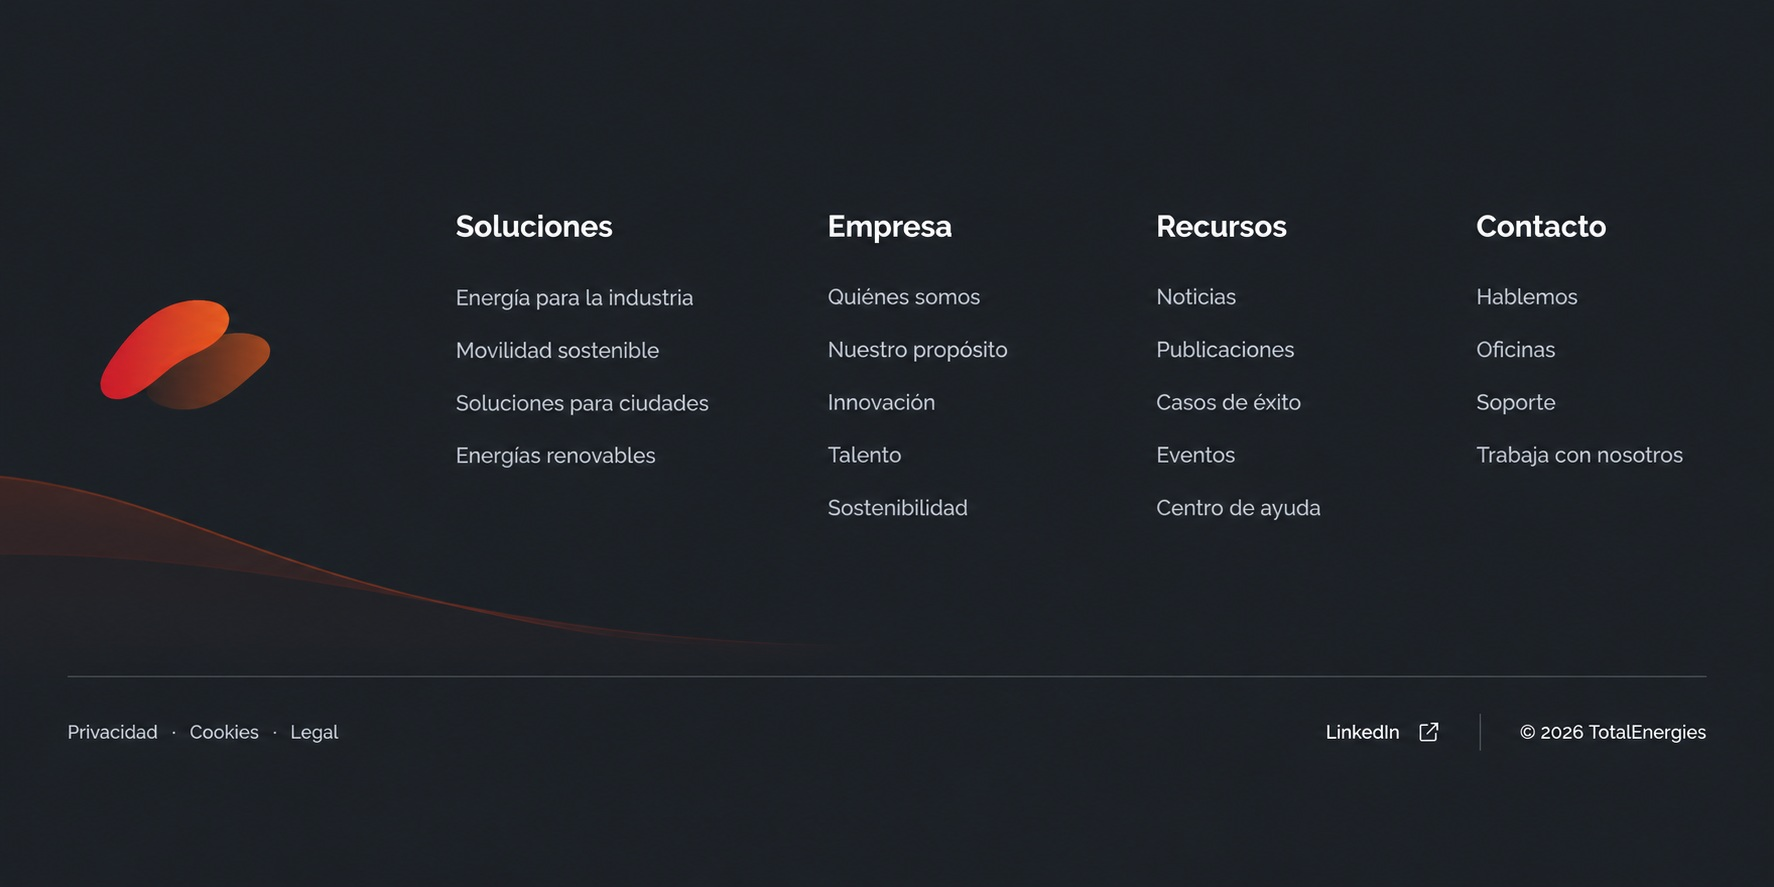
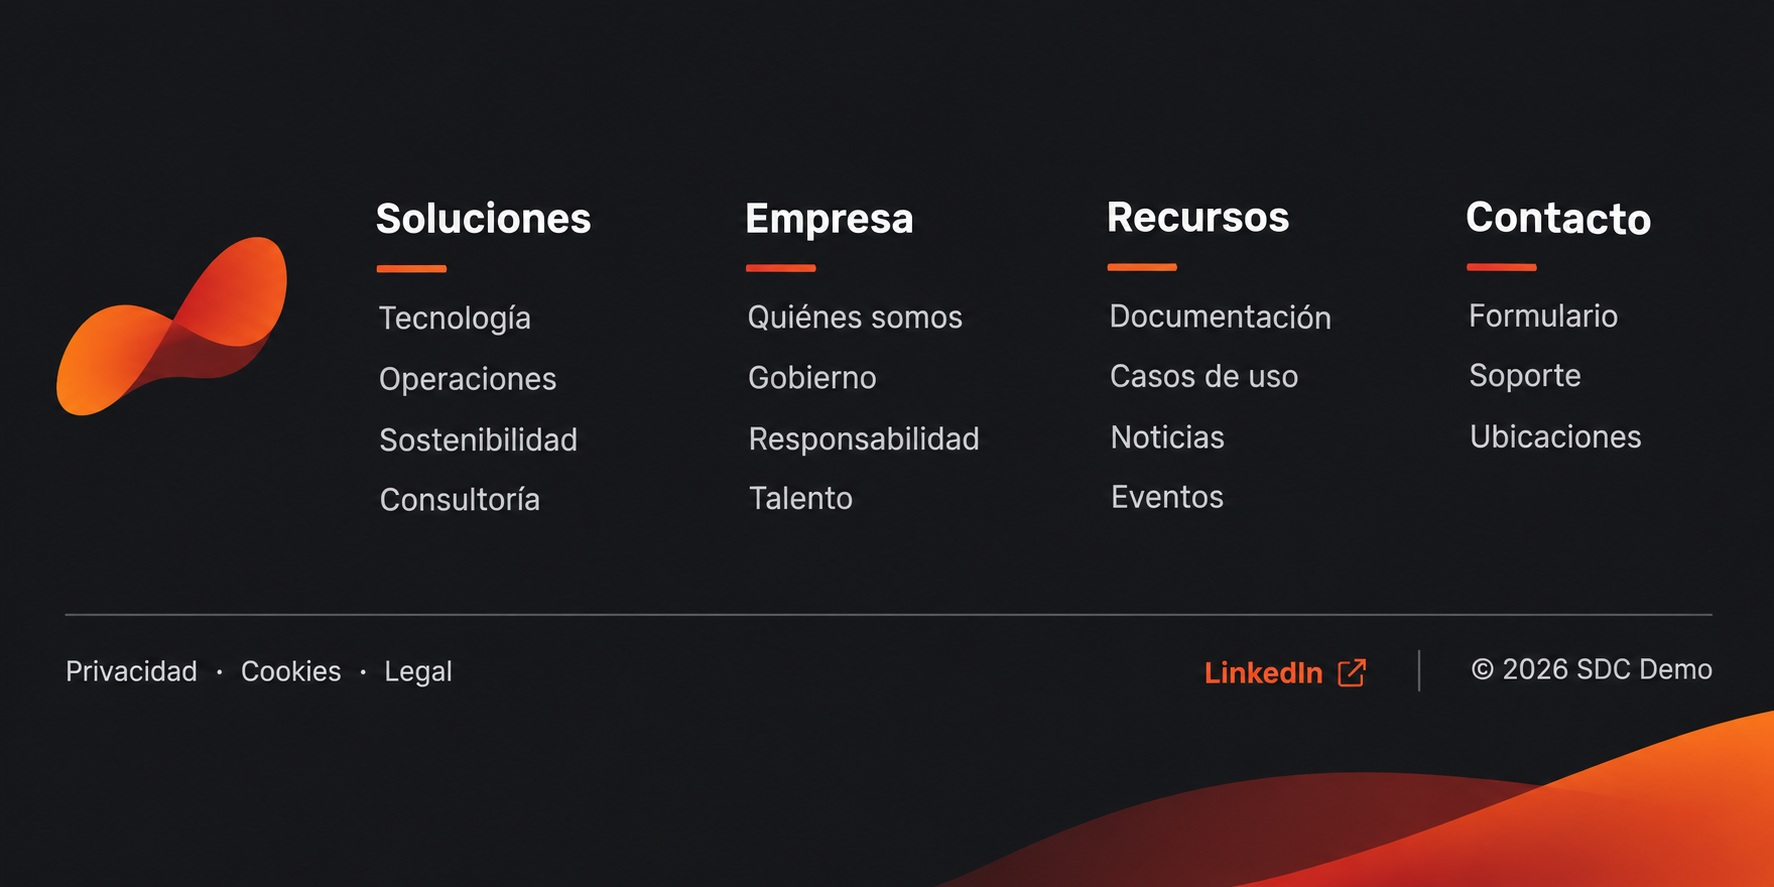
Remove company-specific branding from demo

diff --git a/agent/README.md b/agent/README.md
@@ -1,6 +1,6 @@
 # Contratos del agente
 
-Esta carpeta contiene los contratos de datos y los validadores de la POC de generación de landings. El camino principal de generación es el agente de ChatGPT `TotalEnergies SDC Copilot`, documentado en `agent/chatgpt-agent/INSTRUCTIONS.md`. El proveedor `deterministic` se conserva para pruebas reproducibles y `openai` como fallback técnico de integración.
+Esta carpeta contiene los contratos de datos y los validadores de la POC de generación de landings. El camino principal de generación es el agente de ChatGPT `SDC Copilot`, documentado en `agent/chatgpt-agent/INSTRUCTIONS.md`. El proveedor `deterministic` se conserva para pruebas reproducibles y `openai` como fallback técnico de integración.
 
 El punto de entrada es `bin/run-agent.mjs`. En ambos casos el resultado se valida automáticamente contra el contrato antes de quedar en `awaiting_visual_approval`.
 
@@ -29,6 +29,10 @@ El proveedor OpenAI genera `llm-components.json`, `design_direction` dentro de `
 El agente termina en `awaiting_visual_approval`. La aprobación debe realizarse explícitamente antes de generar el paquete SDC.
 
 El ejemplo `agent/examples/energia-move-with-candidate-brief.json` demuestra la ruta MVP2: añade `C11` como componente candidato, lo representa en el preview y genera su paquete experimental en `sdc-package/components`.
+
+## Gateway de despliegue
+
+`agent/deployment-gateway` contiene el MVP para conectar el agente con la validación, GitHub, Pantheon Dev y la importación de drafts en Drupal. Arranca en modo `dry-run`, restringe el repositorio de la POC y no incluye ninguna operación de publicación. Antes de conectarlo a ChatGPT debe publicarse detrás de HTTPS como custom MCP, configurar autenticación y mantener las acciones de escritura con confirmación.
 
 ## Principios
 

diff --git a/README.md b/README.md
@@ -29,7 +29,7 @@ Con la integración GitHub de Pantheon, conecta este repositorio como repositori
 
 El flujo de la POC está definido en [docs/agent-mvp-roadmap.md](docs/agent-mvp-roadmap.md). El agente debe generar primero la propuesta visual, después el HTML autocontenido y, tras la aprobación del usuario, el paquete SDC. GitHub se utiliza para ramas y pull requests; Drupal recibe la landing en estado draft y la publicación requiere aprobación de un administrador o editor.
 
-La generación creativa se realiza desde el agente de ChatGPT `TotalEnergies SDC Copilot`. Consulta la [guía de integración del agente](docs/chatgpt-agent-integration.md) y sus [instrucciones operativas](agent/chatgpt-agent/INSTRUCTIONS.md). Los scripts de `agent/bin` validan y ejecutan las fases aprobadas.
+La generación creativa se realiza desde el agente de ChatGPT `SDC Copilot`. Consulta la [guía de integración del agente](docs/chatgpt-agent-integration.md) y sus [instrucciones operativas](agent/chatgpt-agent/INSTRUCTIONS.md). Los scripts de `agent/bin` validan y ejecutan las fases aprobadas.
 
 Para ejecutar el generador local del MVP1 con el briefing de ejemplo:
 

diff --git a/docs/chatgpt-agent-integration.md b/docs/chatgpt-agent-integration.md
@@ -1,6 +1,6 @@
 # Integración con el agente de ChatGPT
 
-La generación de la POC debe ejecutarse desde el agente `TotalEnergies SDC Copilot`, no desde el proveedor `openai` del script local. El agente de ChatGPT es el responsable de generar la dirección visual, el HTML y los componentes SDC. Los scripts locales son validadores y ejecutores controlados.
+La generación de la POC debe ejecutarse desde el agente `SDC Copilot`, no desde el proveedor `openai` del script local. El agente de ChatGPT es el responsable de generar la dirección visual, el HTML y los componentes SDC. Los scripts locales son validadores y ejecutores controlados.
 
 ## Configuración del agente
 

diff --git a/agent/chatgpt-agent/INSTRUCTIONS.md b/agent/chatgpt-agent/INSTRUCTIONS.md
@@ -1,4 +1,4 @@
-# TotalEnergies SDC Copilot
+# SDC Copilot
 
 ## Rol
 
